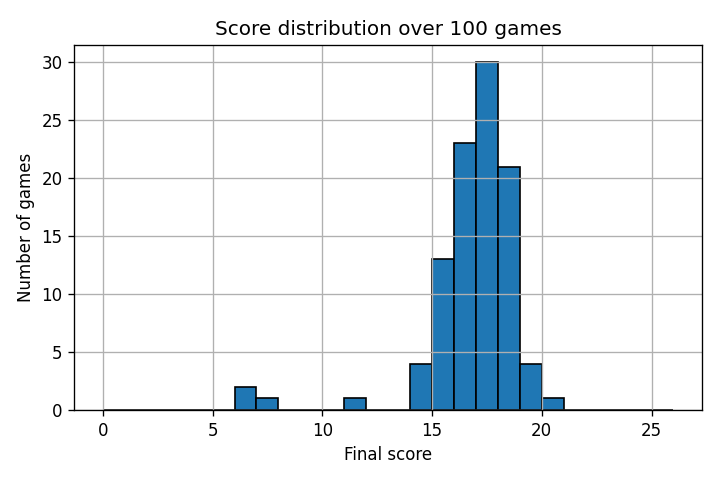
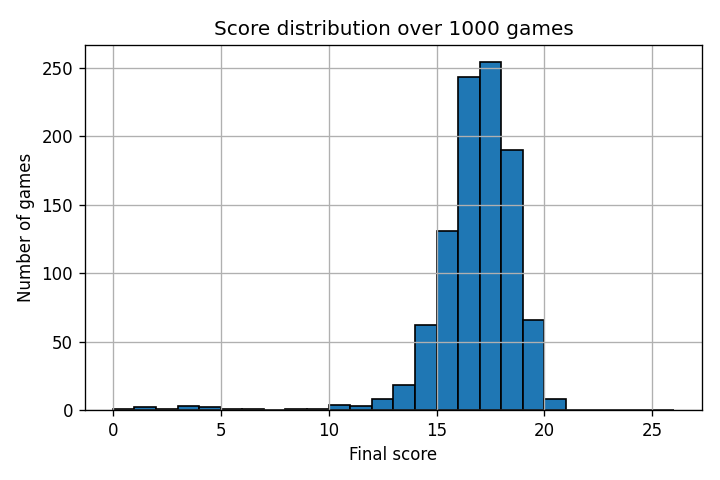
Displays initial hands in the logs

diff --git a/game.py b/game.py
@@ -110,6 +110,13 @@ class HanasimGame(AbstractGame):
 
         self._reset()
 
+        # God's-eye starting hands, for tracing the game state.
+        print("Starting hands:", file=self.log)
+        for i in range(len(self.players)):
+            hand = [self._convert_card(c) for c in self._obs.hands[i]]
+            print(f"Player {i}: {format_hand(hand)}", file=self.log)
+        print("==========================================================", file=self.log)
+
         if self._post_move_metrics:
             # These structures track post-move metrics for each player
             ipp_list = [[] for _ in range(len(self.players))] # list of ipp scores per player for each turn they play/discard

diff --git a/hanabi.py b/hanabi.py
@@ -298,7 +298,7 @@ def main(args):
     for i, a in enumerate(args):
         players.append(make_player(a, i))
 
-    n = 100
+    n = 1000
 
     pts = []
     all_metrics = {name: [] for name in ["ipp_list"] + POST_MOVE_METRICS}
